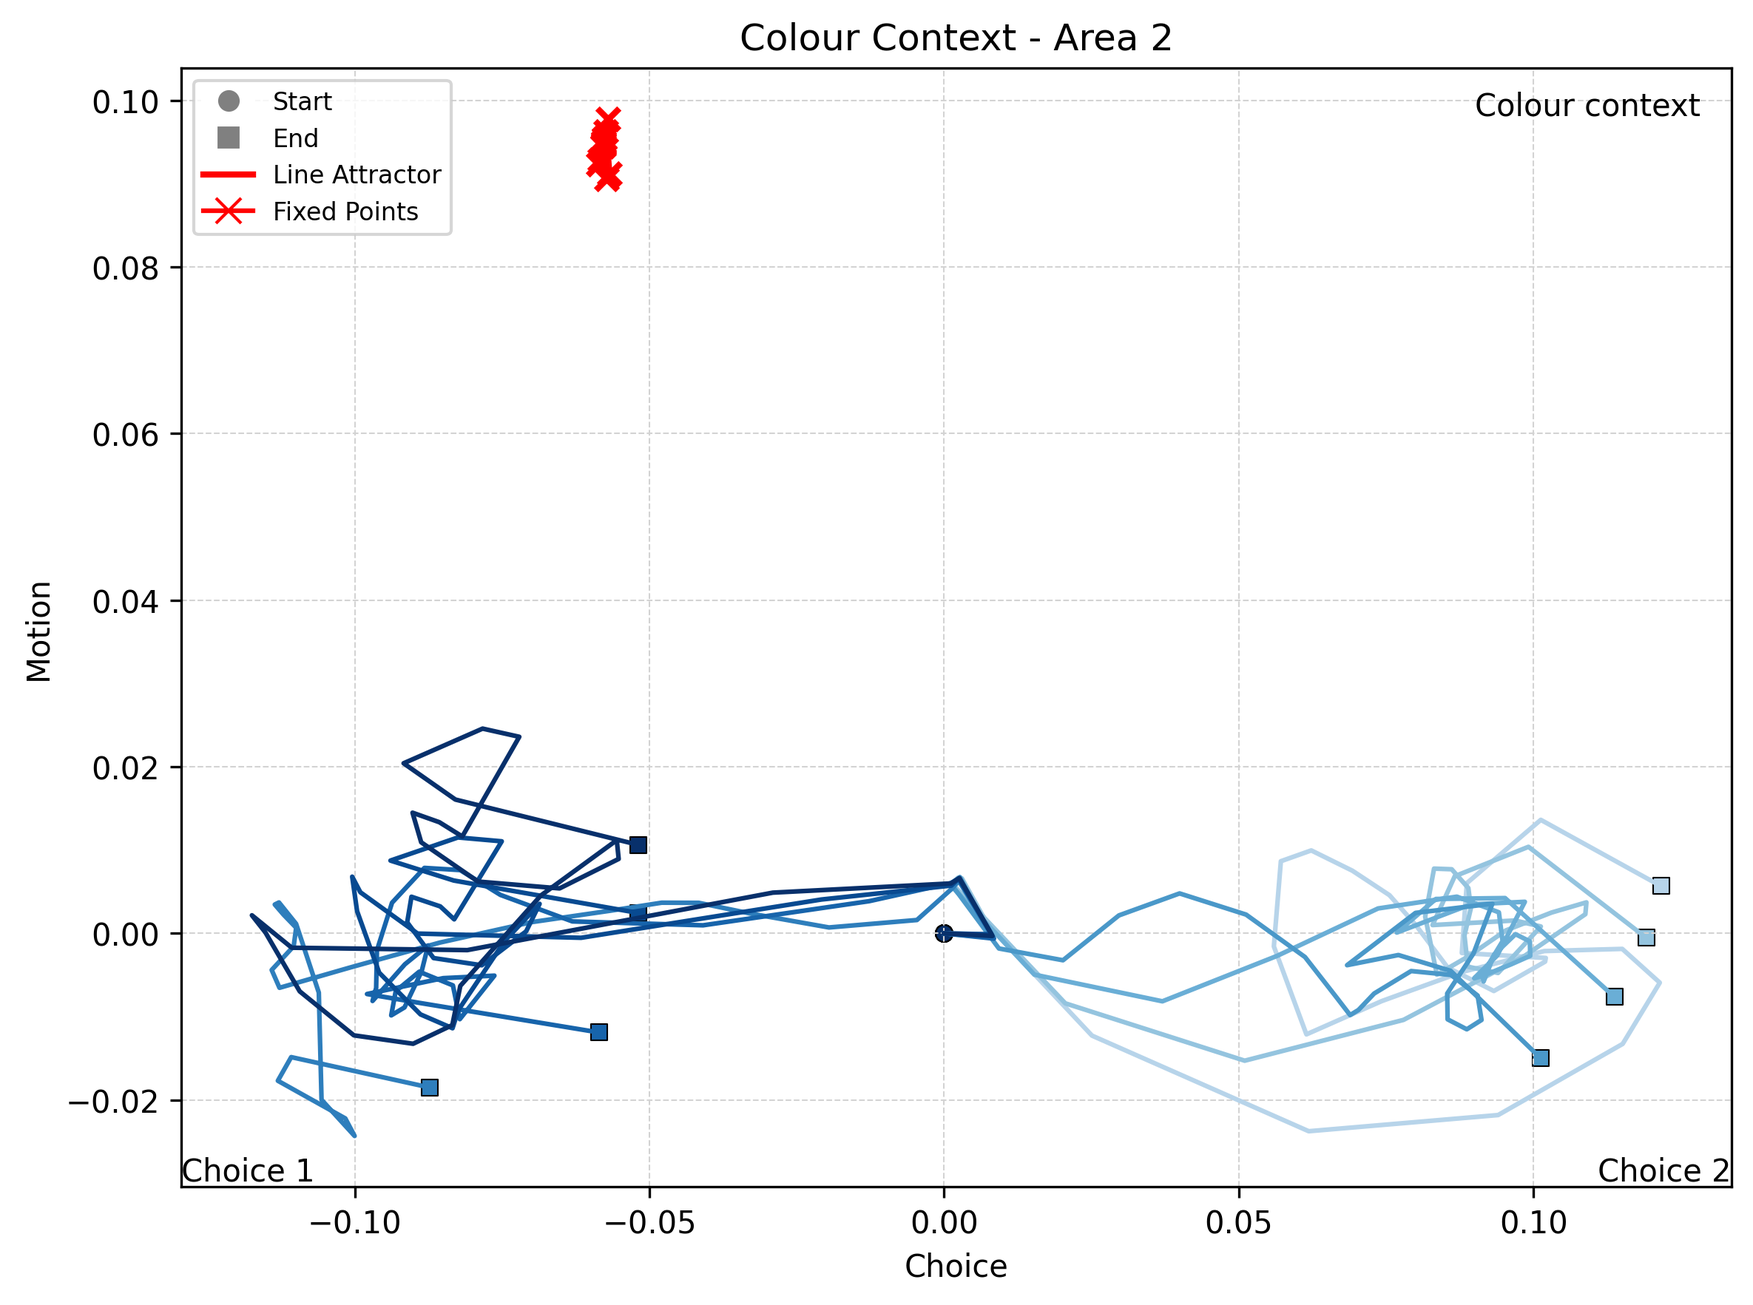
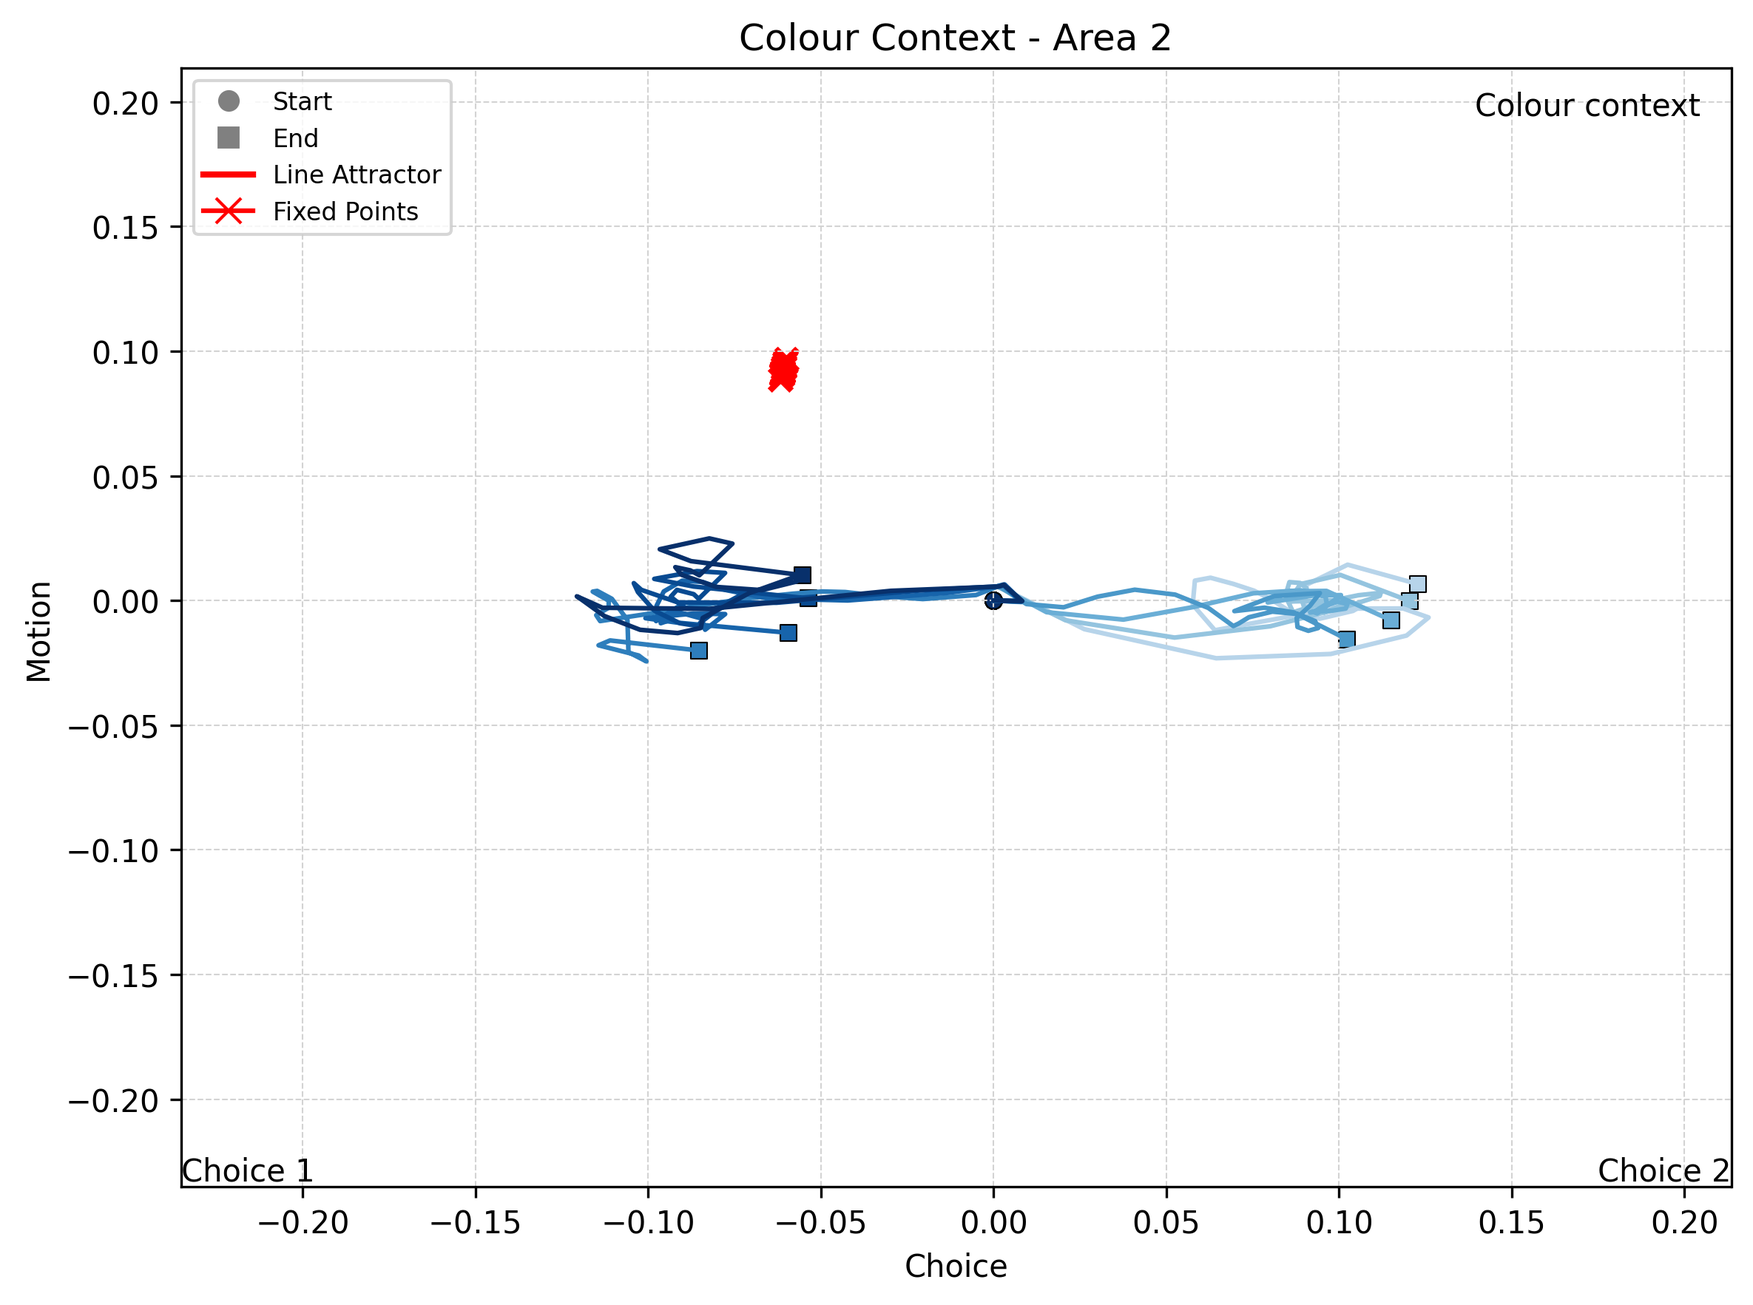
Ensure the same scale of 2 figures.

diff --git a/2arnn_fig5_bonus.py b/2arnn_fig5_bonus.py
@@ -9,6 +9,7 @@ from sklearn.preprocessing import StandardScaler
 from sklearn.model_selection import GridSearchCV
 from data import gen_data, gen_data_fixed_stim
 from tqdm import tqdm
+from visual import plot_trajectory_in_space, get_common_limits
 
 device = 'cuda' if torch.cuda.is_available() else 'cpu'
 
@@ -20,54 +21,6 @@ def get_rnn_hidden_states(model, x):
 
 def linear_regression(X, y):
     return np.linalg.lstsq(X, y, rcond=None)[0]
-
-
-def plot_trajectory_in_space(h_list, beta_x, beta_y, stim_values, x_label, y_label, title, ctx, area, fixed_points=None,
-                             save_path=None):
-    plt.rcParams['font.family'] = 'sans-serif'
-    plt.rcParams['font.sans-serif'] = ['DejaVu Sans', 'Helvetica', 'Arial', 'sans-serif']
-
-    fig, ax = plt.subplots(figsize=(8, 6))
-
-    ax.set_facecolor('white')
-    ax.grid(color='lightgray', linestyle='--', linewidth=0.5)
-
-    colors = plt.cm.Blues(np.linspace(0.3, 1, len(stim_values)))
-
-    for h, stim, color in zip(h_list, stim_values, colors):
-        h_proj = np.column_stack([h @ beta_x, h @ beta_y])
-        ax.plot(h_proj[:, 0], h_proj[:, 1], color=color, linewidth=1.5)
-        ax.scatter(h_proj[0, 0], h_proj[0, 1], color=color, marker='o', s=30, edgecolor='black', linewidth=0.5)
-        ax.scatter(h_proj[-1, 0], h_proj[-1, 1], color=color, marker='s', s=30, edgecolor='black', linewidth=0.5)
-
-    if fixed_points is not None and len(fixed_points) > 0:
-        fixed_points_proj = np.column_stack([fixed_points @ beta_x, fixed_points @ beta_y])
-        ax.plot(fixed_points_proj[:, 0], fixed_points_proj[:, 1], color='red', linewidth=2, linestyle='-',
-                label='Line Attractor')
-        ax.scatter(fixed_points_proj[:, 0], fixed_points_proj[:, 1], color='red', marker='x', s=50, linewidth=2)
-
-    ax.set_xlabel(x_label, fontsize=10)
-    ax.set_ylabel(y_label, fontsize=10)
-    ax.set_title(f"{title} - Area {area}", fontsize=12)
-
-    ax.text(min(ax.get_xlim()), min(ax.get_ylim()), 'Choice 1', ha='left', va='bottom', fontsize=10)
-    ax.text(max(ax.get_xlim()), min(ax.get_ylim()), 'Choice 2', ha='right', va='bottom', fontsize=10)
-
-    legend_elements = [
-        plt.Line2D([0], [0], marker='o', color='w', markerfacecolor='gray', markersize=8, label='Start'),
-        plt.Line2D([0], [0], marker='s', color='w', markerfacecolor='gray', markersize=8, label='End'),
-        plt.Line2D([0], [0], color='red', linewidth=2, label='Line Attractor'),
-        plt.Line2D([0], [0], marker='x', color='red', markersize=8, label='Fixed Points')
-    ]
-    ax.legend(handles=legend_elements, loc='upper left', fontsize=8)
-
-    context_text = 'Motion context' if ctx == 0 else 'Colour context'
-    ax.text(0.98, 0.98, context_text, transform=ax.transAxes, ha='right', va='top', fontsize=10)
-
-    plt.tight_layout()
-    if save_path:
-        plt.savefig(save_path, dpi=300, bbox_inches='tight')
-    plt.show()
 
 
 def find_fixed_points(model, ctx, timing, dt=20, n_points=50, n_iters=1000, learning_rate=0.1, batch_size=50, seed=0,
@@ -186,15 +139,19 @@ def main():
             Q, R = qr(np.stack([beta_1, beta_2, beta_3], axis=-1))
             beta_1_prime, beta_2_prime, beta_3_prime = Q[:, 0], Q[:, 1], Q[:, 2]
 
+            xlim, ylim = get_common_limits(h_list, [beta_3_prime, beta_1_prime, beta_2_prime])
+
             plot_trajectory_in_space(h_list, beta_3_prime, beta_1_prime, stim_values, 'Choice', 'Motion',
-                                     f'{"Motion" if ctx == 0 else "Colour"} Context', ctx, area,
+                                     f'{"Motion" if ctx == 0 else "Colour"} Context - Area {area}', ctx,
                                      fixed_points=fixed_points,
-                                     save_path=f'fig_bonus/context_{ctx}_choice_motion_area{area}.png')
+                                     save_path=f'fig_bonus/context_{ctx}_choice_motion_area{area}.png',
+                                     xlim=xlim, ylim=ylim)
 
             plot_trajectory_in_space(h_list, beta_3_prime, beta_2_prime, stim_values, 'Choice', 'Colour',
-                                     f'{"Motion" if ctx == 0 else "Colour"} Context', ctx, area,
+                                     f'{"Motion" if ctx == 0 else "Colour"} Context - Area {area}', ctx,
                                      fixed_points=fixed_points,
-                                     save_path=f'fig_bonus/context_{ctx}_choice_colour_area{area}.png')
+                                     save_path=f'fig_bonus/context_{ctx}_choice_colour_area{area}.png',
+                                     xlim=xlim, ylim=ylim)
 
         # Sample and plot trajectories from the other context
         other_ctx = 1 - ctx
@@ -217,11 +174,11 @@ def main():
                                                  (2, h2_list_other, fixed_points_2)]:
             if ctx == 0:
                 plot_trajectory_in_space(h_list_other, beta_3_prime, beta_2_prime, stim_values, 'Choice', 'Colour',
-                                         f'Motion Context', ctx, area, fixed_points=fixed_points,
+                                         f'Motion Context - Area {area}', ctx, fixed_points=fixed_points,
                                          save_path=f'fig_bonus/context_{ctx}_irrelevant_choice_colour_area{area}.png')
             else:
                 plot_trajectory_in_space(h_list_other, beta_3_prime, beta_1_prime, stim_values, 'Choice', 'Motion',
-                                         f'Colour Context', ctx, area, fixed_points=fixed_points,
+                                         f'Colour Context - Area {area}', ctx, fixed_points=fixed_points,
                                          save_path=f'fig_bonus/context_{ctx}_irrelevant_choice_motion_area{area}.png')
 
 

diff --git a/2arnn_fig5.py b/2arnn_fig5.py
@@ -9,6 +9,7 @@ from sklearn.preprocessing import StandardScaler
 from sklearn.model_selection import GridSearchCV
 from data import gen_data, gen_data_fixed_stim
 from tqdm import tqdm
+from visual import plot_trajectory_in_space, get_common_limits
 
 device = 'cuda' if torch.cuda.is_available() else 'cpu'
 
@@ -20,54 +21,6 @@ def get_rnn_hidden_states(model, x):
 
 def linear_regression(X, y):
     return np.linalg.lstsq(X, y, rcond=None)[0]
-
-
-def plot_trajectory_in_space(h_list, beta_x, beta_y, stim_values, x_label, y_label, title, ctx, area, fixed_points=None,
-                             save_path=None):
-    plt.rcParams['font.family'] = 'sans-serif'
-    plt.rcParams['font.sans-serif'] = ['DejaVu Sans', 'Helvetica', 'Arial', 'sans-serif']
-
-    fig, ax = plt.subplots(figsize=(8, 6))
-
-    ax.set_facecolor('white')
-    ax.grid(color='lightgray', linestyle='--', linewidth=0.5)
-
-    colors = plt.cm.Blues(np.linspace(0.3, 1, len(stim_values)))
-
-    for h, stim, color in zip(h_list, stim_values, colors):
-        h_proj = np.column_stack([h @ beta_x, h @ beta_y])
-        ax.plot(h_proj[:, 0], h_proj[:, 1], color=color, linewidth=1.5)
-        ax.scatter(h_proj[0, 0], h_proj[0, 1], color=color, marker='o', s=30, edgecolor='black', linewidth=0.5)
-        ax.scatter(h_proj[-1, 0], h_proj[-1, 1], color=color, marker='s', s=30, edgecolor='black', linewidth=0.5)
-
-    if fixed_points is not None and len(fixed_points) > 0:
-        fixed_points_proj = np.column_stack([fixed_points @ beta_x, fixed_points @ beta_y])
-        ax.plot(fixed_points_proj[:, 0], fixed_points_proj[:, 1], color='red', linewidth=2, linestyle='-',
-                label='Line Attractor')
-        ax.scatter(fixed_points_proj[:, 0], fixed_points_proj[:, 1], color='red', marker='x', s=50, linewidth=2)
-
-    ax.set_xlabel(x_label, fontsize=10)
-    ax.set_ylabel(y_label, fontsize=10)
-    ax.set_title(f"{title} - Area {area}", fontsize=12)
-
-    ax.text(min(ax.get_xlim()), min(ax.get_ylim()), 'Choice 1', ha='left', va='bottom', fontsize=10)
-    ax.text(max(ax.get_xlim()), min(ax.get_ylim()), 'Choice 2', ha='right', va='bottom', fontsize=10)
-
-    legend_elements = [
-        plt.Line2D([0], [0], marker='o', color='w', markerfacecolor='gray', markersize=8, label='Start'),
-        plt.Line2D([0], [0], marker='s', color='w', markerfacecolor='gray', markersize=8, label='End'),
-        plt.Line2D([0], [0], color='red', linewidth=2, label='Line Attractor'),
-        plt.Line2D([0], [0], marker='x', color='red', markersize=8, label='Fixed Points')
-    ]
-    ax.legend(handles=legend_elements, loc='upper left', fontsize=8)
-
-    context_text = 'Motion context' if ctx == 0 else 'Colour context'
-    ax.text(0.98, 0.98, context_text, transform=ax.transAxes, ha='right', va='top', fontsize=10)
-
-    plt.tight_layout()
-    if save_path:
-        plt.savefig(save_path, dpi=300, bbox_inches='tight')
-    plt.show()
 
 
 def find_fixed_points(model, ctx, timing, dt=20, n_points=50, n_iters=1000, learning_rate=0.1, batch_size=50, seed=0,
@@ -185,15 +138,19 @@ def main():
             Q, R = qr(np.stack([beta_1, beta_2, beta_3], axis=-1))
             beta_1_prime, beta_2_prime, beta_3_prime = Q[:, 0], Q[:, 1], Q[:, 2]
 
+            xlim, ylim = get_common_limits(h_list, [beta_3_prime, beta_1_prime, beta_2_prime])
+
             plot_trajectory_in_space(h_list, beta_3_prime, beta_1_prime, stim_values, 'Choice', 'Motion',
-                                     f'{"Motion" if ctx == 0 else "Colour"} Context', ctx, area,
+                                     f'{"Motion" if ctx == 0 else "Colour"} Context - Area {area}', ctx,
                                      fixed_points=fixed_points,
-                                     save_path=f'fig/context_{ctx}_choice_motion_area{area}.png')
+                                     save_path=f'fig/context_{ctx}_choice_motion_area{area}.png',
+                                     xlim=xlim, ylim=ylim)
 
             plot_trajectory_in_space(h_list, beta_3_prime, beta_2_prime, stim_values, 'Choice', 'Colour',
-                                     f'{"Motion" if ctx == 0 else "Colour"} Context', ctx, area,
+                                     f'{"Motion" if ctx == 0 else "Colour"} Context - Area {area}', ctx,
                                      fixed_points=fixed_points,
-                                     save_path=f'fig/context_{ctx}_choice_colour_area{area}.png')
+                                     save_path=f'fig/context_{ctx}_choice_colour_area{area}.png',
+                                     xlim=xlim, ylim=ylim)
 
         # Sample and plot trajectories from the other context
         other_ctx = 1 - ctx
@@ -216,11 +173,11 @@ def main():
                                                  (2, h2_list_other, fixed_points_2)]:
             if ctx == 0:
                 plot_trajectory_in_space(h_list_other, beta_3_prime, beta_2_prime, stim_values, 'Choice', 'Colour',
-                                         f'Motion Context', ctx, area, fixed_points=fixed_points,
+                                         f'Motion Context - Area {area}', ctx, fixed_points=fixed_points,
                                          save_path=f'fig/context_{ctx}_irrelevant_choice_colour_area{area}.png')
             else:
                 plot_trajectory_in_space(h_list_other, beta_3_prime, beta_1_prime, stim_values, 'Choice', 'Motion',
-                                         f'Colour Context', ctx, area, fixed_points=fixed_points,
+                                         f'Colour Context - Area {area}', ctx, fixed_points=fixed_points,
                                          save_path=f'fig/context_{ctx}_irrelevant_choice_motion_area{area}.png')
 
 

diff --git a/1arnn_fig5.py b/1arnn_fig5.py
@@ -9,6 +9,7 @@ from sklearn.preprocessing import StandardScaler
 from sklearn.model_selection import GridSearchCV
 from data import gen_data, gen_data_fixed_stim
 from tqdm import tqdm
+from visual import plot_trajectory_in_space, get_common_limits
 
 device = 'cuda' if torch.cuda.is_available() else 'cpu'
 
@@ -20,52 +21,6 @@ def get_rnn_hidden_states(model, x):
 
 def linear_regression(X, y):
     return np.linalg.lstsq(X, y, rcond=None)[0]
-
-
-def plot_trajectory_in_space(h_list, beta_x, beta_y, stim_values, x_label, y_label, title, ctx, fixed_points=None, save_path=None):
-    plt.rcParams['font.family'] = 'sans-serif'
-    plt.rcParams['font.sans-serif'] = ['DejaVu Sans', 'Helvetica', 'Arial', 'sans-serif']
-
-    fig, ax = plt.subplots(figsize=(8, 6))
-
-    ax.set_facecolor('white')
-    ax.grid(color='lightgray', linestyle='--', linewidth=0.5)
-
-    colors = plt.cm.Blues(np.linspace(0.3, 1, len(stim_values)))
-
-    for h, stim, color in zip(h_list, stim_values, colors):
-        h_proj = np.column_stack([h @ beta_x, h @ beta_y])
-        ax.plot(h_proj[:, 0], h_proj[:, 1], color=color, linewidth=1.5)
-        ax.scatter(h_proj[0, 0], h_proj[0, 1], color=color, marker='o', s=30, edgecolor='black', linewidth=0.5)
-        ax.scatter(h_proj[-1, 0], h_proj[-1, 1], color=color, marker='s', s=30, edgecolor='black', linewidth=0.5)
-
-    if fixed_points is not None and len(fixed_points) > 0:
-        fixed_points_proj = np.column_stack([fixed_points @ beta_x, fixed_points @ beta_y])
-        ax.plot(fixed_points_proj[:, 0], fixed_points_proj[:, 1], color='red', linewidth=2, linestyle='-', label='Line Attractor')
-        ax.scatter(fixed_points_proj[:, 0], fixed_points_proj[:, 1], color='red', marker='x', s=50, linewidth=2)
-
-    ax.set_xlabel(x_label, fontsize=10)
-    ax.set_ylabel(y_label, fontsize=10)
-    ax.set_title(title, fontsize=12)
-
-    ax.text(min(ax.get_xlim()), min(ax.get_ylim()), 'Choice 1', ha='left', va='bottom', fontsize=10)
-    ax.text(max(ax.get_xlim()), min(ax.get_ylim()), 'Choice 2', ha='right', va='bottom', fontsize=10)
-
-    legend_elements = [
-        plt.Line2D([0], [0], marker='o', color='w', markerfacecolor='gray', markersize=8, label='Start'),
-        plt.Line2D([0], [0], marker='s', color='w', markerfacecolor='gray', markersize=8, label='End'),
-        plt.Line2D([0], [0], color='red', linewidth=2, label='Line Attractor'),
-        plt.Line2D([0], [0], marker='x', color='red', markersize=8, label='Fixed Points')
-    ]
-    ax.legend(handles=legend_elements, loc='upper left', fontsize=8)
-
-    context_text = 'Motion context' if ctx == 0 else 'Colour context'
-    ax.text(0.98, 0.98, context_text, transform=ax.transAxes, ha='right', va='top', fontsize=10)
-
-    plt.tight_layout()
-    if save_path:
-        plt.savefig(save_path, dpi=300, bbox_inches='tight')
-    plt.show()
 
 
 def orthogonalize_last_vector(vectors):
@@ -232,10 +187,16 @@ def main():
         # beta_1_prime, beta_2_prime, beta_3_prime = orthogonalized_vectors[:, 0], orthogonalized_vectors[:,
         #                                                                          1], orthogonalized_vectors[:, 2]
 
-        plot_trajectory_in_space(h_list, beta_3_prime, beta_1_prime, stim_values, 'Choice', 'Motion', f'{"Motion" if ctx == 0 else "Colour"} Context',
-                                 ctx, fixed_points=fixed_points, save_path=f'fig/context_{ctx}_choice_motion.png')
-        plot_trajectory_in_space(h_list, beta_3_prime, beta_2_prime, stim_values, 'Choice', 'Colour', f'{"Motion" if ctx == 0 else "Colour"} Context',
-                                 ctx, fixed_points=fixed_points, save_path=f'fig/context_{ctx}_choice_colour.png')
+        xlim, ylim = get_common_limits(h_list, [beta_3_prime, beta_1_prime, beta_2_prime])
+
+        plot_trajectory_in_space(h_list, beta_3_prime, beta_1_prime, stim_values, 'Choice', 'Motion',
+                                 f'{"Motion" if ctx == 0 else "Colour"} Context',
+                                 ctx, fixed_points=fixed_points, save_path=f'fig/context_{ctx}_choice_motion.png',
+                                 xlim=xlim, ylim=ylim)
+        plot_trajectory_in_space(h_list, beta_3_prime, beta_2_prime, stim_values, 'Choice', 'Colour',
+                                 f'{"Motion" if ctx == 0 else "Colour"} Context',
+                                 ctx, fixed_points=fixed_points, save_path=f'fig/context_{ctx}_choice_colour.png',
+                                 xlim=xlim, ylim=ylim)
 
         # Sample and plot trajectories from the other context
         other_ctx = 1 - ctx

diff --git a/visual.py b/visual.py
@@ -1,0 +1,76 @@
+import numpy as np
+import matplotlib.pyplot as plt
+
+
+def plot_trajectory_in_space(h_list, beta_x, beta_y, stim_values, x_label, y_label, title, ctx, fixed_points=None,
+                             save_path=None, xlim=None, ylim=None):
+    plt.rcParams['font.family'] = 'sans-serif'
+    plt.rcParams['font.sans-serif'] = ['DejaVu Sans', 'Helvetica', 'Arial', 'sans-serif']
+
+    fig, ax = plt.subplots(figsize=(8, 6))
+
+    ax.set_facecolor('white')
+    ax.grid(color='lightgray', linestyle='--', linewidth=0.5)
+
+    colors = plt.cm.Blues(np.linspace(0.3, 1, len(stim_values)))
+
+    for h, stim, color in zip(h_list, stim_values, colors):
+        h_proj = np.column_stack([h @ beta_x, h @ beta_y])
+        ax.plot(h_proj[:, 0], h_proj[:, 1], color=color, linewidth=1.5)
+        ax.scatter(h_proj[0, 0], h_proj[0, 1], color=color, marker='o', s=30, edgecolor='black', linewidth=0.5)
+        ax.scatter(h_proj[-1, 0], h_proj[-1, 1], color=color, marker='s', s=30, edgecolor='black', linewidth=0.5)
+
+    if fixed_points is not None and len(fixed_points) > 0:
+        fixed_points_proj = np.column_stack([fixed_points @ beta_x, fixed_points @ beta_y])
+        ax.plot(fixed_points_proj[:, 0], fixed_points_proj[:, 1], color='red', linewidth=2, linestyle='-',
+                label='Line Attractor')
+        ax.scatter(fixed_points_proj[:, 0], fixed_points_proj[:, 1], color='red', marker='x', s=50, linewidth=2)
+
+    if xlim is not None:
+        ax.set_xlim(xlim)
+    if ylim is not None:
+        ax.set_ylim(ylim)
+
+    ax.set_xlabel(x_label, fontsize=10)
+    ax.set_ylabel(y_label, fontsize=10)
+    ax.set_title(title, fontsize=12)
+
+    ax.text(min(ax.get_xlim()), min(ax.get_ylim()), 'Choice 1', ha='left', va='bottom', fontsize=10)
+    ax.text(max(ax.get_xlim()), min(ax.get_ylim()), 'Choice 2', ha='right', va='bottom', fontsize=10)
+
+    legend_elements = [
+        plt.Line2D([0], [0], marker='o', color='w', markerfacecolor='gray', markersize=8, label='Start'),
+        plt.Line2D([0], [0], marker='s', color='w', markerfacecolor='gray', markersize=8, label='End'),
+        plt.Line2D([0], [0], color='red', linewidth=2, label='Line Attractor'),
+        plt.Line2D([0], [0], marker='x', color='red', markersize=8, label='Fixed Points')
+    ]
+    ax.legend(handles=legend_elements, loc='upper left', fontsize=8)
+
+    context_text = 'Motion context' if ctx == 0 else 'Colour context'
+    ax.text(0.98, 0.98, context_text, transform=ax.transAxes, ha='right', va='top', fontsize=10)
+
+    plt.tight_layout()
+    if save_path:
+        plt.savefig(save_path, dpi=300, bbox_inches='tight')
+    # plt.show()
+
+
+def get_common_limits(h_list, beta_list):
+    all_x = []
+    all_y = []
+    for h in h_list:
+        for beta in beta_list:
+            proj = h @ beta
+            all_x.extend(proj)
+            all_y.extend(proj)
+
+    x_min, x_max = min(all_x), max(all_x)
+    y_min, y_max = min(all_y), max(all_y)
+
+    margin = 0.1
+    x_range = x_max - x_min
+    y_range = y_max - y_min
+
+    return [x_min - margin * x_range, x_max + margin * x_range], [y_min - margin * y_range, y_max + margin * y_range]
+
+

diff --git a/data.py b/data.py
@@ -137,6 +137,25 @@ def gen_data_fixed_stim(n_trials, fixed_stim, ctx, dt=20, timing=[300, 1000, 900
 
     return x, y, metadata
 
+
+def get_common_limits(h_list, beta_list):
+    all_x = []
+    all_y = []
+    for h in h_list:
+        for beta in beta_list:
+            proj = h @ beta
+            all_x.extend(proj)
+            all_y.extend(proj)
+
+    x_min, x_max = min(all_x), max(all_x)
+    y_min, y_max = min(all_y), max(all_y)
+
+    margin = 0.1
+    x_range = x_max - x_min
+    y_range = y_max - y_min
+
+    return [x_min - margin * x_range, x_max + margin * x_range], [y_min - margin * y_range, y_max + margin * y_range]
+
 if __name__ == '__main__':
     import matplotlib.pyplot as plt
     x, y, metadata = gen_data(100)
